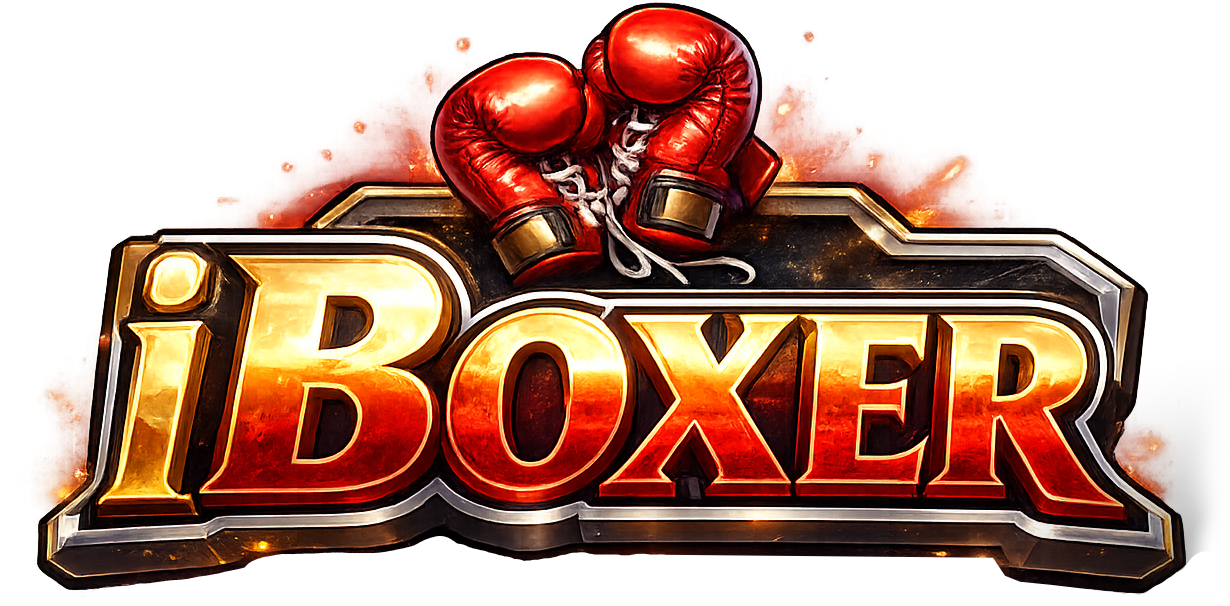
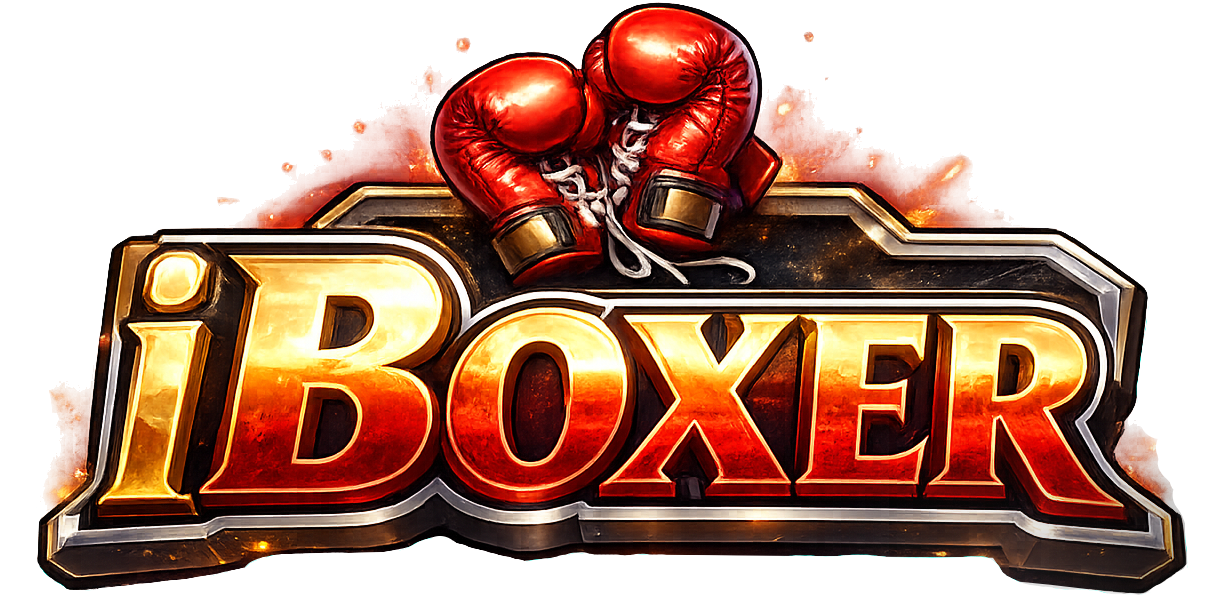
app-ads fix. iBoxer release.

Changed region(s): [[0.9268, 0.6832, 0.9886, 0.9208], [0.8341, 0.9505, 0.865, 0.9802], [0.6797, 0.8911, 0.7106, 0.9208]]

diff --git a/iboxer/index.html b/iboxer/index.html
@@ -44,28 +44,19 @@
     .hero::before {
       content: ''; position: absolute; inset: 0;
       background: url('iBoxerBackground.png') center/cover no-repeat;
-      opacity: 0.28; z-index: -2; filter: blur(2px); transform: scale(1.05);
+      opacity: 0.28; z-index: -2; filter: blur(3px); transform: scale(1.05);
     }
-    .hero::after {
-      content: ''; position: absolute; inset: 0;
-      background: radial-gradient(ellipse at 50% 40%, rgba(255,59,48,0.20) 0%, transparent 60%),
-                  linear-gradient(to bottom, rgba(15,17,21,0.35) 0%, var(--bg-dark) 92%);
-      z-index: -1;
-    }
+<!--    .hero::after {-->
+<!--      content: ''; position: absolute; inset: 0;-->
+<!--      background: radial-gradient(ellipse at 50% 40%, rgba(255,59,48,0.20) 0%, transparent 60%),-->
+<!--                  linear-gradient(to bottom, rgba(15,17,21,0.35) 0%, var(--bg-dark) 92%);-->
+<!--      z-index: -1;-->
+<!--    }-->
     .hero-title-img {
       max-width: 92%; width: 560px;
       filter: drop-shadow(0 0 45px rgba(255,59,48,0.5));
       margin-bottom: 2.2rem;
       animation: fadeIn 1s ease-out;
-    }
-    .coming-soon-banner {
-      display: inline-flex; align-items: center; gap: 0.6rem;
-      padding: 0.5rem 1.4rem; border-radius: 30px;
-      background: rgba(255,59,48,0.12); color: var(--primary);
-      border: 1px solid rgba(255,59,48,0.4);
-      font-size: 0.9rem; font-weight: 700;
-      text-transform: uppercase; letter-spacing: 0.15em;
-      margin-bottom: 2rem; animation: fadeIn 1.2s ease-out;
     }
     .pulse-dot { width: 8px; height: 8px; border-radius: 50%; background: currentColor; animation: pulse 1.5s ease-in-out infinite; }
     @keyframes pulse { 0%,100%{opacity:1;transform:scale(1)} 50%{opacity:0.4;transform:scale(0.7)} }
@@ -158,9 +149,10 @@
   <!-- Hero -->
   <section class="hero">
     <img src="iBoxerTitle.png" alt="iBoxer" class="hero-title-img">
-    <div class="coming-soon-banner">
-      <span class="pulse-dot"></span>
-      Coming Soon
+    <div class="store-content">
+        <a href="https://apps.apple.com/app/sorcerers-muffin/id6762327874" class="appstore-btn" target="_blank" rel="noopener">
+          <img src="../common/appstore_us_black.svg" alt="Download on the App Store">
+        </a>
     </div>
     <p class="hero-desc">Lace up your gloves and step into the ring. iBoxer is a fast, fist-pumping arcade boxing game — duck, weave, block, and land the knockout blow to become champion.</p>
   </section>
@@ -182,11 +174,11 @@
         <h3>Fast-Paced Bouts</h3>
         <p>Read your opponent, time your dodges, and unleash combos in adrenaline-fueled arcade rounds.</p>
       </div>
-      <div class="feature-card">
-        <span class="feature-icon">🏆</span>
-        <h3>Climb the Ranks</h3>
-        <p>Battle through a roster of colorful challengers and fight your way to the championship belt.</p>
-      </div>
+<!--      <div class="feature-card">-->
+<!--        <span class="feature-icon">🏆</span>-->
+<!--        <h3>Climb the Ranks</h3>-->
+<!--        <p>Battle through a roster of colorful challengers and fight your way to the championship belt.</p>-->
+<!--      </div>-->
       <div class="feature-card">
         <span class="feature-icon">🎨</span>
         <h3>Vibrant Style</h3>
@@ -210,8 +202,11 @@
 
   <!-- Notify -->
   <section class="notify-strip">
-    <h2>Launching Soon</h2>
-    <p>iBoxer is currently in development and awaiting App Store approval. More details — features, gameplay, and release date — coming soon. Stay tuned!</p>
+    <h2>Only for Apple iOS!</h2>
+    <p>iBoxer is currently available on AppStore for free.</p>
+    <a href="https://apps.apple.com/app/sorcerers-muffin/id6762327874" class="appstore-btn" target="_blank" rel="noopener">
+      <img src="../common/appstore_us_black.svg" alt="Download on the App Store">
+    </a>
     <br>
     <a href="/iboxer/privacy.html" class="privacy-link">Privacy Policy</a>
   </section>

diff --git a/index.html b/index.html
@@ -265,7 +265,7 @@
         <img src="SNote/NoteScene_1.png" alt="Sorcerer's Note"
              class="product-thumb" style="object-position:top;">
         <div class="product-card-body">
-          <span class="product-badge badge-soon-purple">Coming Soon · iPad</span>
+          <span class="product-badge badge-soon-purple">Available on App Store</span>
           <h3>Sorcerer's Note</h3>
           <p>A powerful iPad handwriting app for notes, PDF annotation, and audio-synced recording.</p>
         </div>
@@ -274,7 +274,7 @@
       <a href="/iboxer/index.html" class="product-card boxer">
         <img src="iboxer/screen02.PNG" alt="iBoxer" class="product-thumb">
         <div class="product-card-body">
-          <span class="product-badge badge-soon-red">Coming Soon</span>
+          <span class="product-badge badge-soon-red">Available on App Store</span>
           <h3>iBoxer</h3>
           <p>Step into the ring for fast, fist-pumping arcade boxing. Duck, weave, and land the knockout blow.</p>
         </div>
